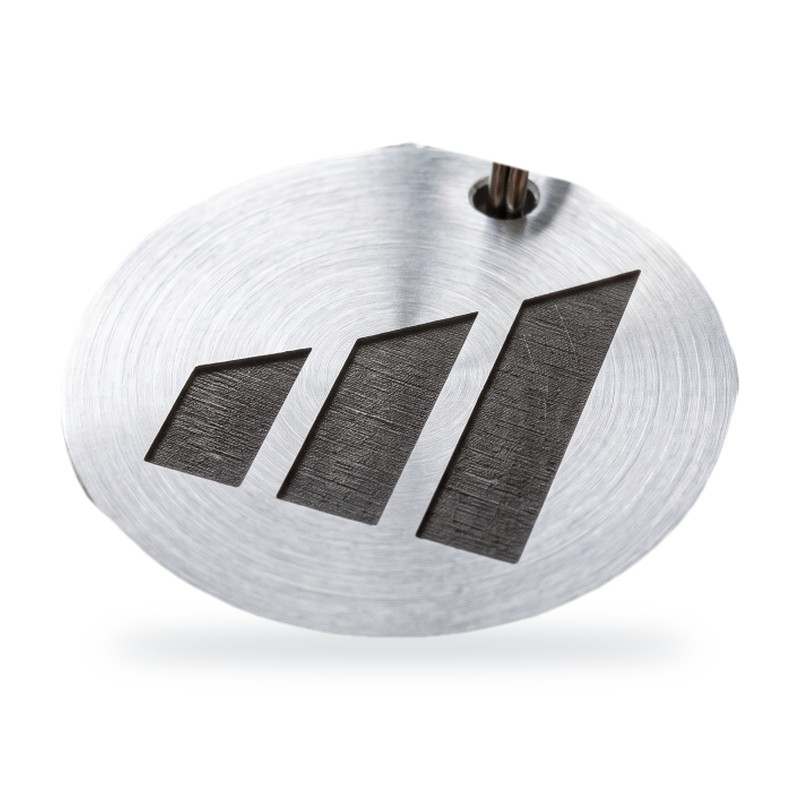
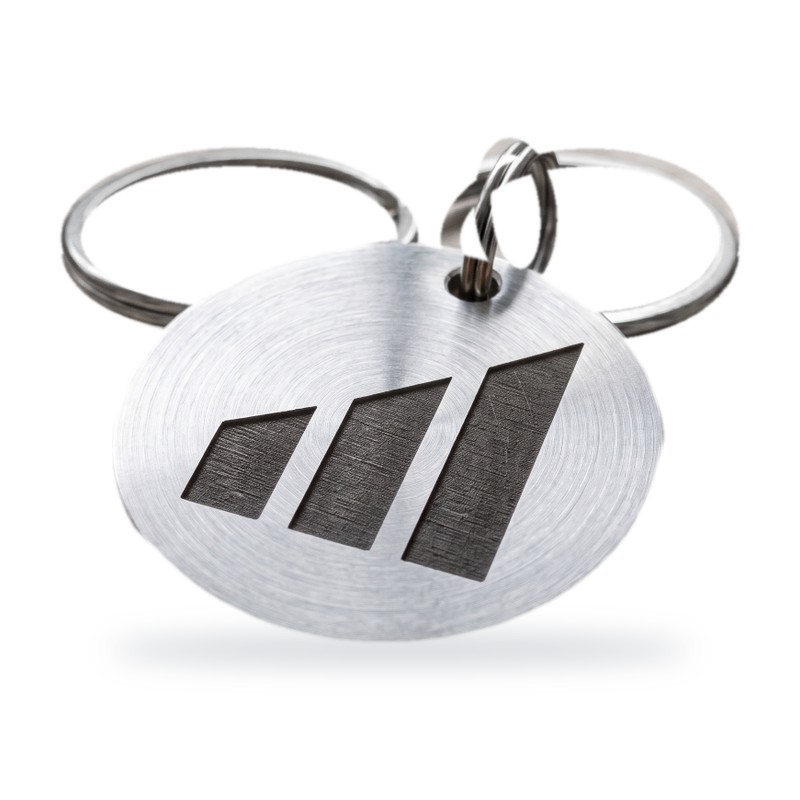
Webshop: kulcstartó kép gyűrűkkel együtt
Claude-Session: https://claude.ai/code/session_01CiC7RTcsiy2ugcGWEePSUZ

diff --git a/webshop.html b/webshop.html
@@ -89,7 +89,7 @@
       <div class="tiles">
         <label class="tile"><input type="checkbox" id="c-nj"><span class="ph"><img src="img-webshop/nevjegykartya.jpg" alt="" width="400" height="400" loading="lazy"></span><span class="nm">Névjegykártya</span><i class="ck" aria-hidden="true"></i></label>
         <label class="tile"><input type="checkbox" id="c-pe"><span class="ph"><img src="img-webshop/pezsgo.jpg" alt="" width="400" height="400" loading="lazy"></span><span class="nm">Pezsgő</span><i class="ck" aria-hidden="true"></i></label>
-        <label class="tile"><input type="checkbox" id="c-ku"><span class="ph"><img src="img-webshop/kulcstarto.jpg" alt="" width="400" height="400" loading="lazy"></span><span class="nm">Kulcstartó</span><i class="ck" aria-hidden="true"></i></label>
+        <label class="tile"><input type="checkbox" id="c-ku"><span class="ph"><img src="img-webshop/kulcstarto.jpg?v=2" alt="" width="400" height="400" loading="lazy"></span><span class="nm">Kulcstartó</span><i class="ck" aria-hidden="true"></i></label>
       </div>
 
       <div class="opt" id="o-nj" hidden>
